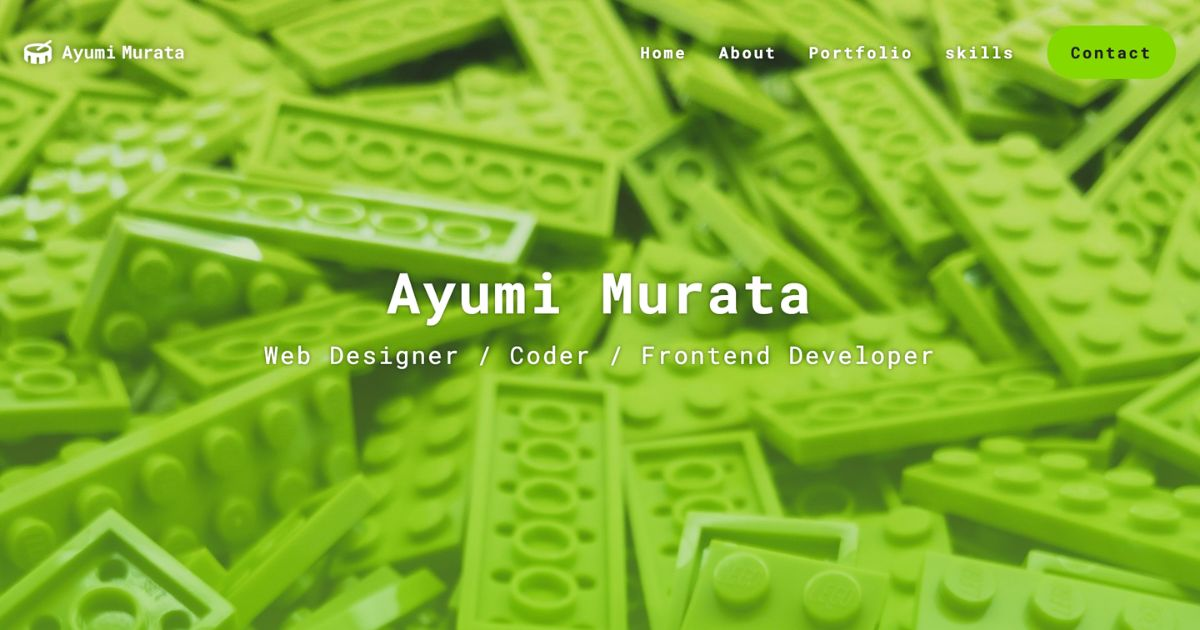
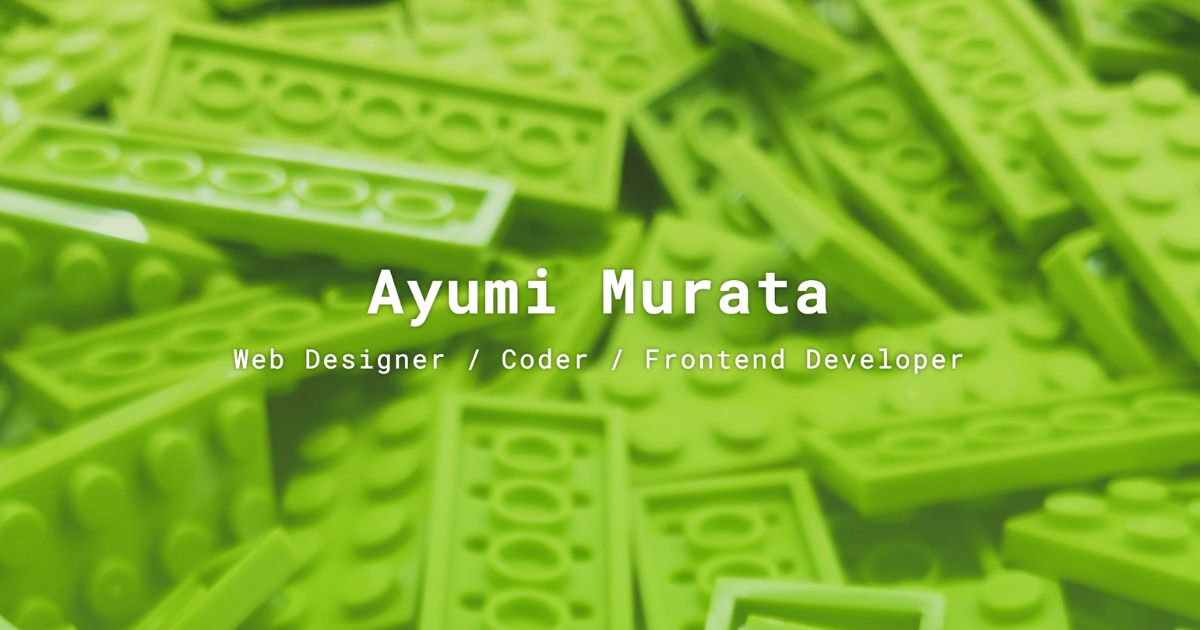
Loudyの追加、その他微修正

diff --git a/index.html b/index.html
@@ -127,18 +127,20 @@
           <ul class="portfolio-list">
             <li class="portfolio-item fade-up-item fade-up-item-grid-01">
               <div class="portfolio-img">
-                <img src="./assets/images/portfolio/shanaradi-lp.png" alt="シャナラジ（LP）">
+                <img src="./assets/images/portfolio/loudy.png" alt=" Loudy">
               </div>
               <div class="portfolio-info">
-                <h3>シャナラジ（LP）</h3>
-                <p class="summary">
-                  概要：社内ラジオに特化したCMS『シャナラジ』のLPサイト。リリース直後で実績がない状況でもリードを獲得できるよう、信頼感と導入イメージを重視して設計しました。
-                </p>
-                <p class="part-tool">
-                  担当領域：サイトのデザイン設計、コーディング<br>
-                  使用技術：HTML / CSS / JavaScript
-                </p>
-                <a href="https://shanaradi.jp/" target="_blank" class="btn btn-thick btn-green">
+                <div class="portfolio-info-text">
+                  <h3>Loudy（Web）</h3>
+                  <p class="summary">
+                    概要：音声ファイルの音量調整を無料で行えるツール『Loudy』。Reactの学習の一環として、生成AI（ChatGPT）を活用しながら個人で開発しました。その後、実務での有用性が評価され、現職にて採用されています。
+                  </p>
+                  <p class="part-tool">
+                    担当領域：サイトのデザイン設計、コーディング<br>
+                    使用技術：HTML / CSS / Tailwind CSS / JavaScript / React
+                  </p>
+                </div>
+                <a href="https://audio-marketing.jp/loudy/" target="_blank" class="btn btn-thick">
                   実際のサイトを見る
                   <i class="fa-solid fa-arrow-up-right-from-square"></i>
                 </a>
@@ -146,18 +148,20 @@
             </li>
             <li class="portfolio-item fade-up-item fade-up-item-grid-02">
               <div class="portfolio-img">
-                <img src="./assets/images/portfolio/shanaradi-cms.png" alt="シャナラジ（CMS）">
+                <img src="./assets/images/portfolio/shanaradi-lp.png" alt="シャナラジ">
               </div>
               <div class="portfolio-info">
-                <h3>シャナラジ（CMS）</h3>
-                <p class="summary">
-                  概要：社内ラジオに特化した音声配信CMS『シャナラジ』。誰でも迷わず操作できるよう、シンプルかつ直感的なUIを設計。既存サービスとの差別化を意識しながらも、過剰な機能は省き、企業利用に適した使いやすさを重視しました。バックエンドは別担当。
-                </p>
-                <p class="part-tool">
-                  担当領域：サイトのデザイン設計、コーディング（バックエンドは除く）<br>
-                  使用技術：HTML / CSS / JavaScript / Tailwind CSS
-                </p>
-                <a href="https://app.shanaradi.jp/" target="_blank" class="btn btn-thick btn-lime">
+                <div class="portfolio-info-text">
+                  <h3>シャナラジ（LP）</h3>
+                  <p class="summary">
+                    概要：社内ラジオに特化したCMS『シャナラジ』のLPサイト。リリース直後で実績がない状況でもリードを獲得できるよう、信頼感と導入イメージを重視して設計しました。
+                  </p>
+                  <p class="part-tool">
+                    担当領域：サイトのデザイン設計、コーディング<br>
+                    使用技術：HTML / CSS / JavaScript
+                  </p>
+                </div>
+                <a href="https://shanaradi.jp/" target="_blank" class="btn btn-thick">
                   実際のサイトを見る
                   <i class="fa-solid fa-arrow-up-right-from-square"></i>
                 </a>
@@ -165,18 +169,20 @@
             </li>
             <li class="portfolio-item fade-up-item fade-up-item-grid-03">
               <div class="portfolio-img">
-                <img src="./assets/images/portfolio/audiomob.png" alt="Audiomob">
+                <img src="./assets/images/portfolio/shanaradi-cms.png" alt="シャナラジ">
               </div>
               <div class="portfolio-info">
-                <h3>Audiomob（LP）</h3>
-                <p class="summary">
-                  概要：ゲーム内音声広告プラットフォーム『Audiomob』のLPサイト。導入のハードルを下げ、初めての方にも仕組みが伝わるよう、視覚的な構成と導線設計にこだわりました。
-                </p>
-                <p class="part-tool">
-                  担当領域：サイトのデザイン設計、コーディング<br>
-                  使用技術：HTML / CSS / JavaScript
-                </p>
-                <a href="https://otonal.co.jp/audioad/audiomob/" target="_blank" class="btn btn-thick btn-green">
+                <div class="portfolio-info-text">
+                  <h3>シャナラジ（CMS）</h3>
+                  <p class="summary">
+                    概要：社内ラジオに特化した音声配信CMS『シャナラジ』。誰でも迷わず操作できるよう、シンプルかつ直感的なUIを設計。既存サービスとの差別化を意識しながらも、過剰な機能は省き、企業利用に適した使いやすさを重視しました。バックエンドは別担当。
+                  </p>
+                  <p class="part-tool">
+                    担当領域：サイトのデザイン設計、コーディング（バックエンドは除く）<br>
+                    使用技術：HTML / CSS / Tailwind CSS / JavaScript
+                  </p>
+                </div>
+                <a href="https://app.shanaradi.jp/" target="_blank" class="btn btn-thick">
                   実際のサイトを見る
                   <i class="fa-solid fa-arrow-up-right-from-square"></i>
                 </a>
@@ -184,18 +190,20 @@
             </li>
             <li class="portfolio-item fade-up-item fade-up-item-grid-01">
               <div class="portfolio-img">
-                <img src="./assets/images/portfolio/podplace.png" alt="PODPLACE">
+                <img src="./assets/images/portfolio/audiomob.png" alt="Audiomob">
               </div>
               <div class="portfolio-info">
-                <h3>PODPLACE（Web）</h3>
-                <p class="summary">
-                  概要：広告主とポッドキャスターのマッチングサービス『PODPLACE』。広告主がスムーズに依頼できるよう、利用動線と情報設計を重視したUIを担当しました。バックエンドは別担当。
-                </p>
-                <p class="part-tool">
-                  担当領域：サイトのデザイン設計、コーディング（バックエンドは除く）<br>
-                  使用技術：HTML / CSS / JavaScript / Tailwind CSS
-                </p>
-                <a href="https://podplace.jp/" target="_blank" class="btn btn-thick btn-lime">
+                <div class="portfolio-info-text">
+                  <h3>Audiomob（LP）</h3>
+                  <p class="summary">
+                    概要：ゲーム内音声広告プラットフォーム『Audiomob』のLPサイト。導入のハードルを下げ、初めての方にも仕組みが伝わるよう、視覚的な構成と導線設計にこだわりました。
+                  </p>
+                  <p class="part-tool">
+                    担当領域：サイトのデザイン設計、コーディング<br>
+                    使用技術：HTML / CSS / JavaScript
+                  </p>
+                </div>
+                <a href="https://otonal.co.jp/audioad/audiomob/" target="_blank" class="btn btn-thick">
                   実際のサイトを見る
                   <i class="fa-solid fa-arrow-up-right-from-square"></i>
                 </a>
@@ -203,18 +211,20 @@
             </li>
             <li class="portfolio-item fade-up-item fade-up-item-grid-02">
               <div class="portfolio-img">
-                <img src="./assets/images/portfolio/podcaster-promotion.png" alt="PODCSTER PROMOTION">
+                <img src="./assets/images/portfolio/podplace.png" alt="PODPLACE">
               </div>
               <div class="portfolio-info">
-                <h3>PODCASTER PROMOTION（LP）</h3>
-                <p class="summary">
-                  概要：ポッドキャスターが読み上げ型の広告を番組内で配信するサービス『PODCASTER PROMOTION』のLPページ。既存LPを別のデザイナーから引き継ぎ、リニューアルにあたり再設計を担当。ヒーローセクションやCTA、右下ポップアップなど一部要素は活かしつつ、構成とビジュアルを全体的に見直し、ユーザー導線と視認性を意識して刷新しました。
-                </p>
-                <p class="part-tool">
-                  担当領域：サイトのデザイン設計、コーディング<br>
-                  使用技術：HTML / CSS / JavaScript
-                </p>
-                <a href="https://otonal.co.jp/audioad/podcasterpromotion/" target="_blank" class="btn btn-thick btn-green">
+                <div class="portfolio-info-text">
+                  <h3>PODPLACE（Web）</h3>
+                  <p class="summary">
+                    概要：広告主とポッドキャスターのマッチングサービス『PODPLACE』。広告主がスムーズに依頼できるよう、利用動線と情報設計を重視したUIを担当しました。バックエンドは別担当。
+                  </p>
+                  <p class="part-tool">
+                    担当領域：サイトのデザイン設計、コーディング（バックエンドは除く）<br>
+                    使用技術：HTML / CSS / Tailwind CSS / JavaScript
+                  </p>
+                </div>
+                <a href="https://podplace.jp/" target="_blank" class="btn btn-thick">
                   実際のサイトを見る
                   <i class="fa-solid fa-arrow-up-right-from-square"></i>
                 </a>
@@ -222,18 +232,41 @@
             </li>
             <li class="portfolio-item fade-up-item fade-up-item-grid-03">
               <div class="portfolio-img">
+                <img src="./assets/images/portfolio/podcaster-promotion.png" alt="PODCSTER PROMOTION">
+              </div>
+              <div class="portfolio-info">
+                <div class="portfolio-info-text">
+                  <h3>PODCASTER PROMOTION（LP）</h3>
+                  <p class="summary">
+                    概要：ポッドキャスターが読み上げ型の広告を番組内で配信するサービス『PODCASTER PROMOTION』のLPページ。既存LPを別のデザイナーから引き継ぎ、リニューアルにあたり再設計を担当。ヒーローセクションやCTA、右下ポップアップなど一部要素は活かしつつ、構成とビジュアルを全体的に見直し、ユーザー導線と視認性を意識して刷新しました。
+                  </p>
+                  <p class="part-tool">
+                    担当領域：サイトのデザイン設計、コーディング<br>
+                    使用技術：HTML / CSS / JavaScript
+                  </p>
+                </div>
+                <a href="https://otonal.co.jp/audioad/podcasterpromotion/" target="_blank" class="btn btn-thick">
+                  実際のサイトを見る
+                  <i class="fa-solid fa-arrow-up-right-from-square"></i>
+                </a>
+              </div>
+            </li>
+            <li class="portfolio-item fade-up-item fade-up-item-grid-01">
+              <div class="portfolio-img">
                 <img src="./assets/images/portfolio/podcastpedia.png" alt="PODCASTPEDIA">
               </div>
               <div class="portfolio-info">
-                <h3>PODCASTPEDIA（Web）</h3>
-                <p class="summary">
-                  概要：ポッドキャスト版ウィキペディア『PODCASTPEDIA』のTOPページリニューアルを担当。「使い勝手が悪い」との課題を受け、神回登録やおすすめ理由がひと目で分かるようUIを再設計しました。
-                </p>
-                <p class="part-tool">
-                  担当領域：サイトのデザイン設計、コーディング<br>
-                  使用技術：HTML / CSS / JavaScript / Tailwind CSS
-                </p>
-                <a href="https://podcastpedia.net/" target="_blank" class="btn btn-thick btn-lime">
+                <div class="portfolio-info-text">
+                  <h3>PODCASTPEDIA（Web）</h3>
+                  <p class="summary">
+                    概要：ポッドキャスト版ウィキペディア『PODCASTPEDIA』のTOPページリニューアルを担当。「使い勝手が悪い」との課題を受け、神回登録やおすすめ理由がひと目で分かるようUIを再設計しました。
+                  </p>
+                  <p class="part-tool">
+                    担当領域：サイトのデザイン設計、コーディング<br>
+                    使用技術：HTML / CSS / Tailwind CSS / JavaScript
+                  </p>
+                </div>
+                <a href="https://podcastpedia.net/" target="_blank" class="btn btn-thick">
                   実際のサイトを見る
                   <i class="fa-solid fa-arrow-up-right-from-square"></i>
                 </a>

diff --git a/assets/css/style.css b/assets/css/style.css
@@ -692,6 +692,8 @@ portfolio
   border-radius: 16px;
   box-shadow: 0 8px 12px rgba(0, 0, 0, 0.1);
   transition: transform 0.5s ease, box-shadow 0.5s ease;
+  display: flex;
+  flex-direction: column;
 }
 
 .portfolio-item:hover {
@@ -699,20 +701,42 @@ portfolio
   box-shadow: 0 8px 12px rgba(0, 0, 0, 0.1);
 }
 
-.portfolio-item:nth-of-type(odd) .portfolio-img {
-  background-color: var(--color-green);
+.portfolio-item:nth-of-type(odd) {
+  .portfolio-img {
+    background-color: var(--color-green);
+  }
+
+  .portfolio-info .btn {
+    background-color: var(--color-green);
+
+    &:hover {
+      opacity: 0.9;
+      color: var(--color-black);
+    }
+  }
+
+  .portfolio-info-text h3 {
+    color: var(--color-green-dark);
+  }
 }
 
-.portfolio-item:nth-of-type(odd) .portfolio-info h3 {
-  color: var(--color-green-dark);
-}
+.portfolio-item:nth-of-type(even) {
+  .portfolio-img {
+    background-color: var(--color-lime);
+  }
 
-.portfolio-item:nth-of-type(even) .portfolio-img {
-  background-color: var(--color-lime);
-}
+  .portfolio-info .btn {
+    background-color: var(--color-lime);
 
-.portfolio-item:nth-of-type(even) .portfolio-info h3 {
-  color: var(--color-lime-dark);
+    &:hover {
+      opacity: 0.9;
+      color: var(--color-black);
+    }
+  }
+
+  .portfolio-info-text h3 {
+    color: var(--color-lime-dark);
+  }
 }
 
 .portfolio-img {
@@ -730,24 +754,28 @@ portfolio
   padding: 24px;
   display: flex;
   flex-direction: column;
+  justify-content: space-between;
+  gap: 20px;
+  flex: 1;
+}
+
+.portfolio-info-text {
+  display: flex;
+  flex-direction: column;
   gap: 16px;
 }
 
-.portfolio-info h3 {
+.portfolio-info-text h3 {
   font-size: 20px;
 }
 
-.portfolio-info .summary {
+.portfolio-info-text .summary {
   font-size: 16px;
 }
 
-.portfolio-info .part-tool {
+.portfolio-info-text .part-tool {
   font-size: 14px;
   color: var(--color-gray-dark);
-}
-
-.portfolio-info .btn {
-  margin-top: 8px;
 }
 
 @media screen and (min-width: 768px) {
@@ -762,7 +790,7 @@ portfolio
   }
 }
 
-@media screen and (min-width: 1024px) {
+@media screen and (min-width: 1280px) {
   .portfolio-list {
     gap: 32px;
   }
@@ -792,7 +820,7 @@ skills
 }
 
 .skill-item h3 {
-  font-size: 18px;
+  font-size: 16px;
   margin-bottom: 8px;
 }
 
@@ -811,6 +839,10 @@ skills
 @media screen and (min-width: 1024px) {
   .skill-list {
     grid-template-columns: 1fr 1fr 1fr 1fr;
+  }
+
+  .skill-item h3 {
+    font-size: 18px;
   }
 }
 
